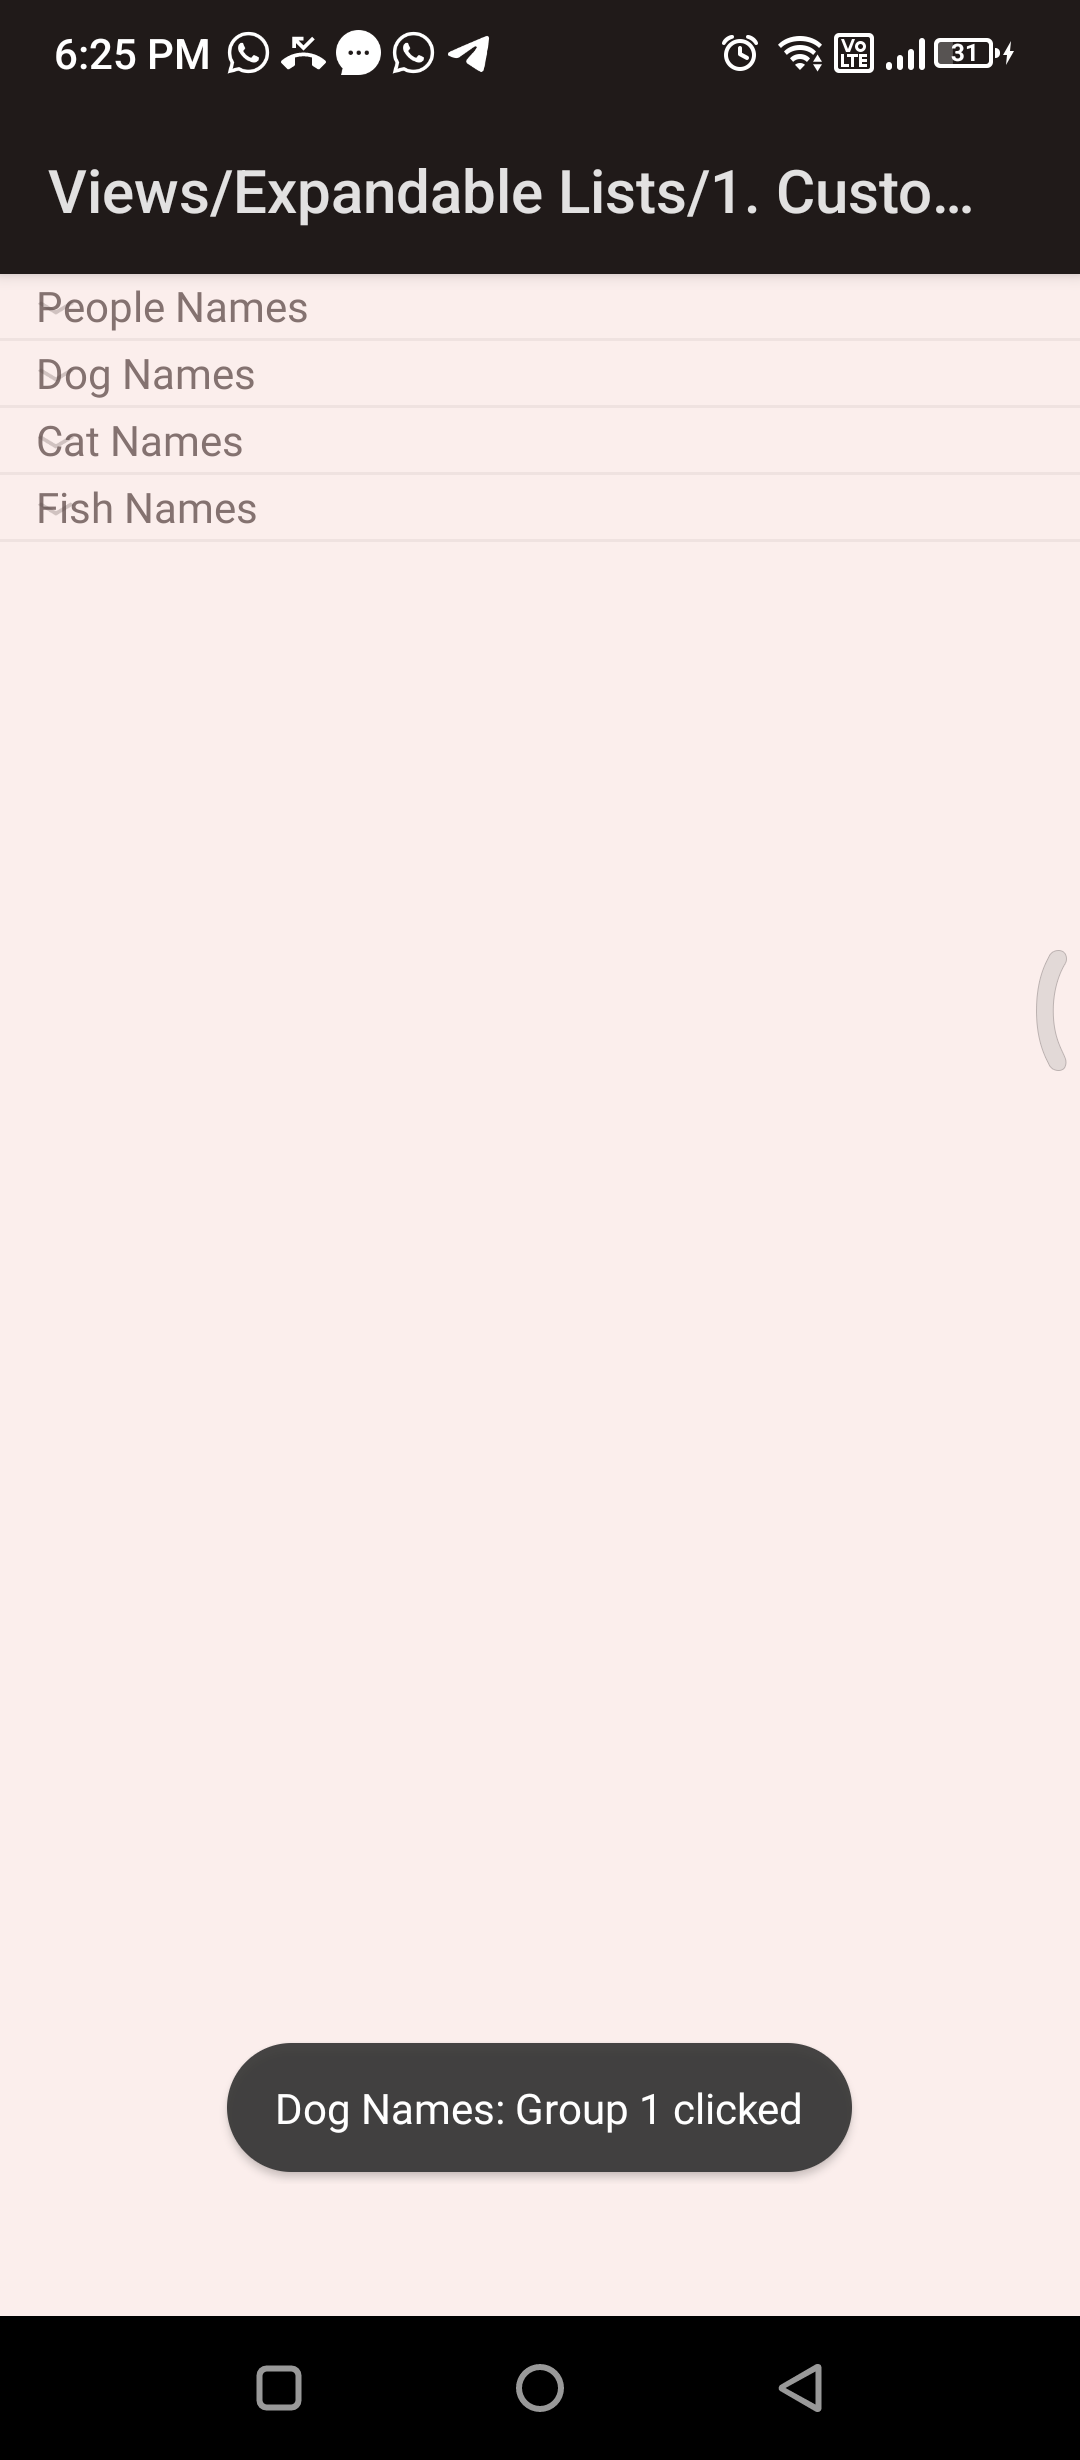
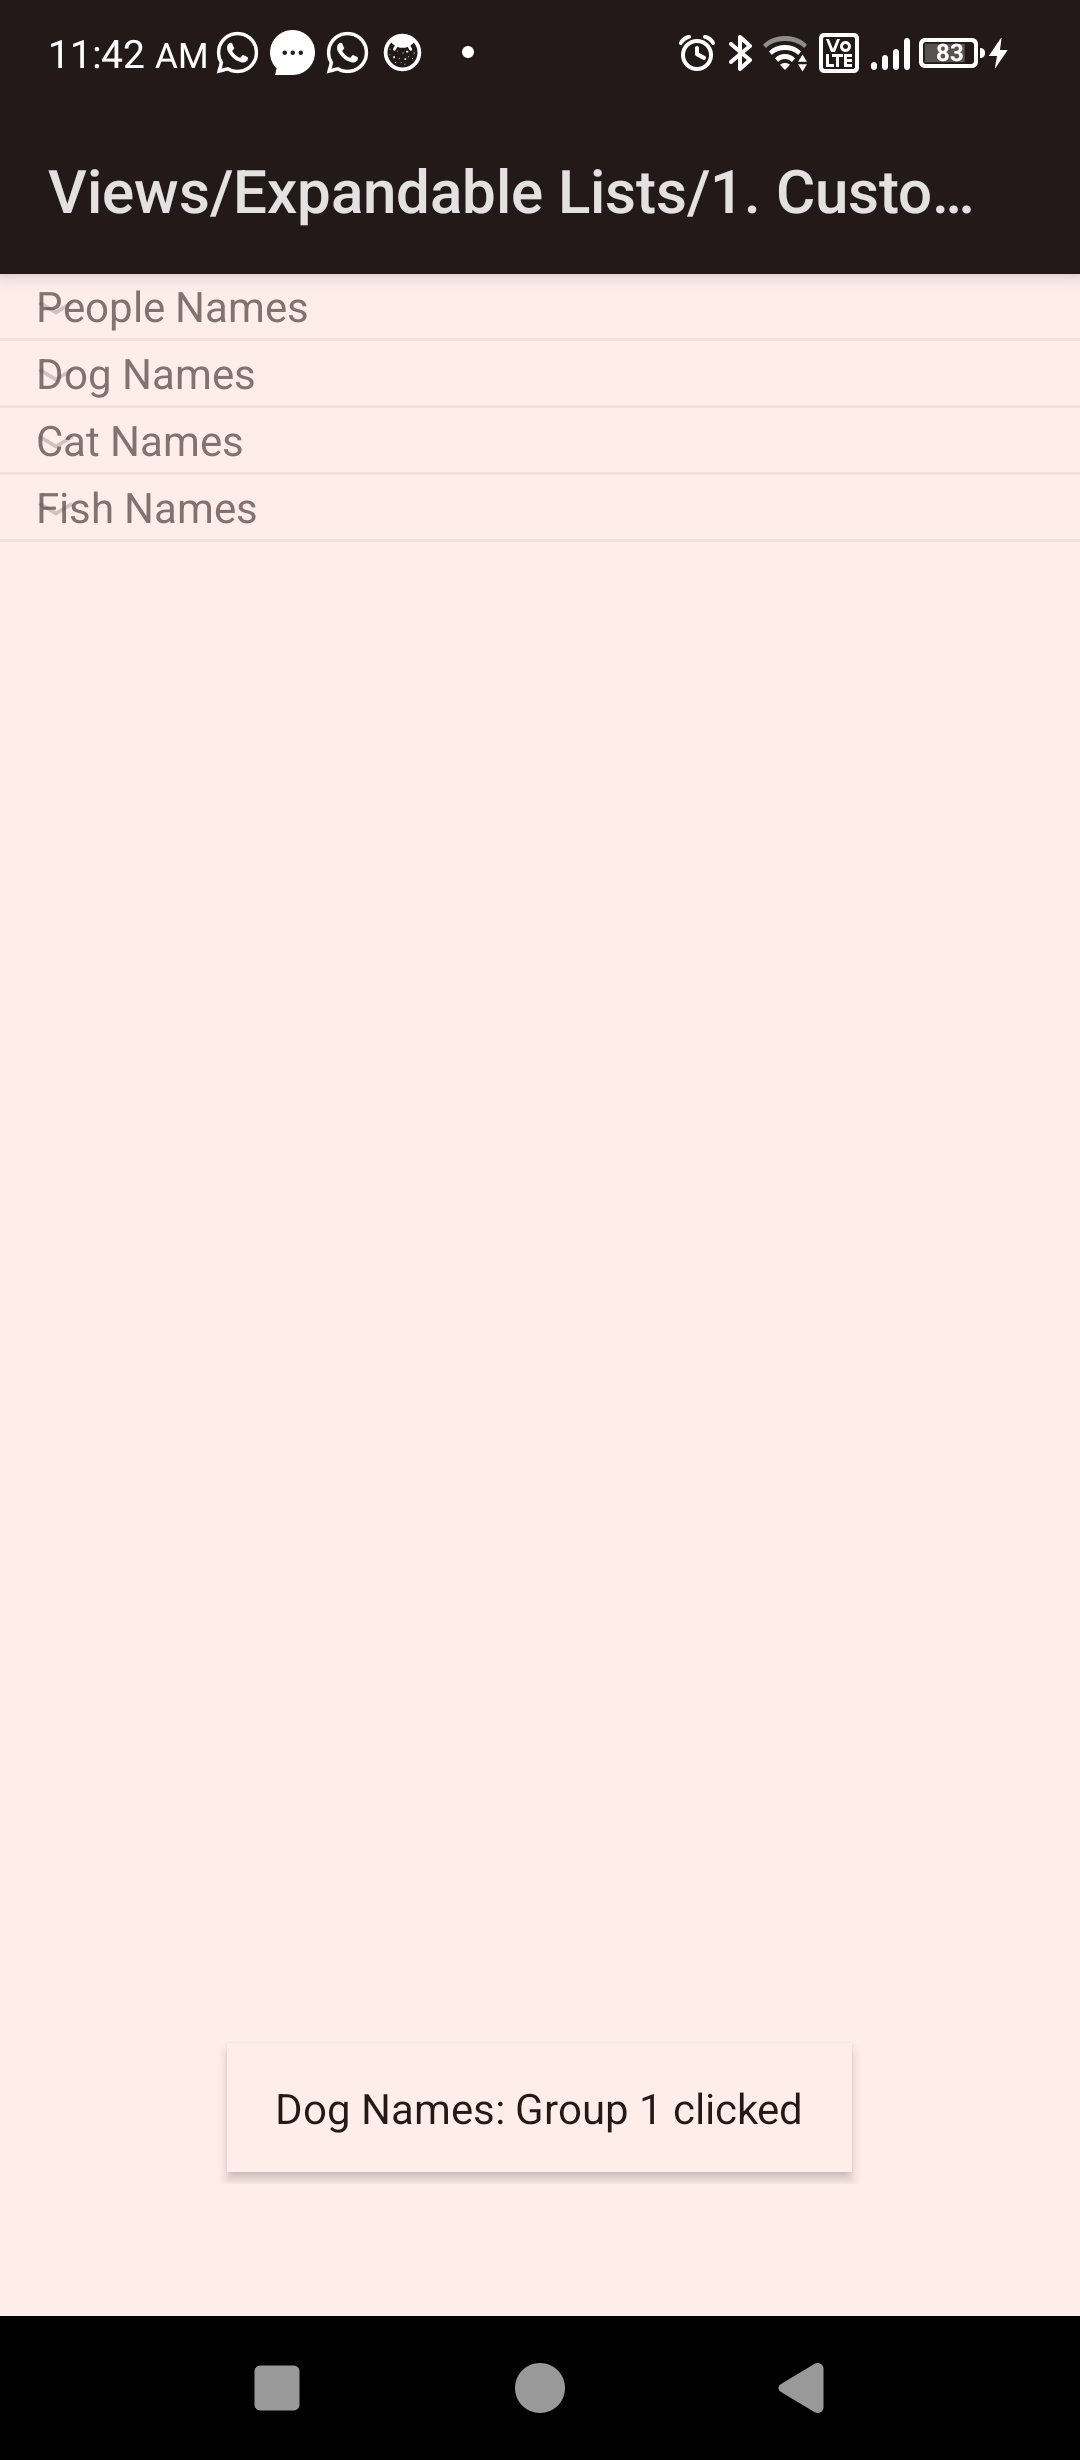
adding screenshot and android version

diff --git a/appiumPractice/src/test/java/ApiInfo/A0_UIAutomator2OptionsGourav.java b/appiumPractice/src/test/java/ApiInfo/A0_UIAutomator2OptionsGourav.java
@@ -19,7 +19,7 @@ public class A0_UIAutomator2OptionsGourav {
         UiAutomator2Options options = new UiAutomator2Options();
         options
                 .setPlatformName("android")
-                .setPlatformVersion("13")
+                .setPlatformVersion("14")
                 .setAutomationName("UiAutomator2")
                 .setDeviceName("ST5GDM23LB005246")  //here you can put emulator as well if you open android studio and emulator is there
                 .setAppPackage("io.appium.android.apis")
